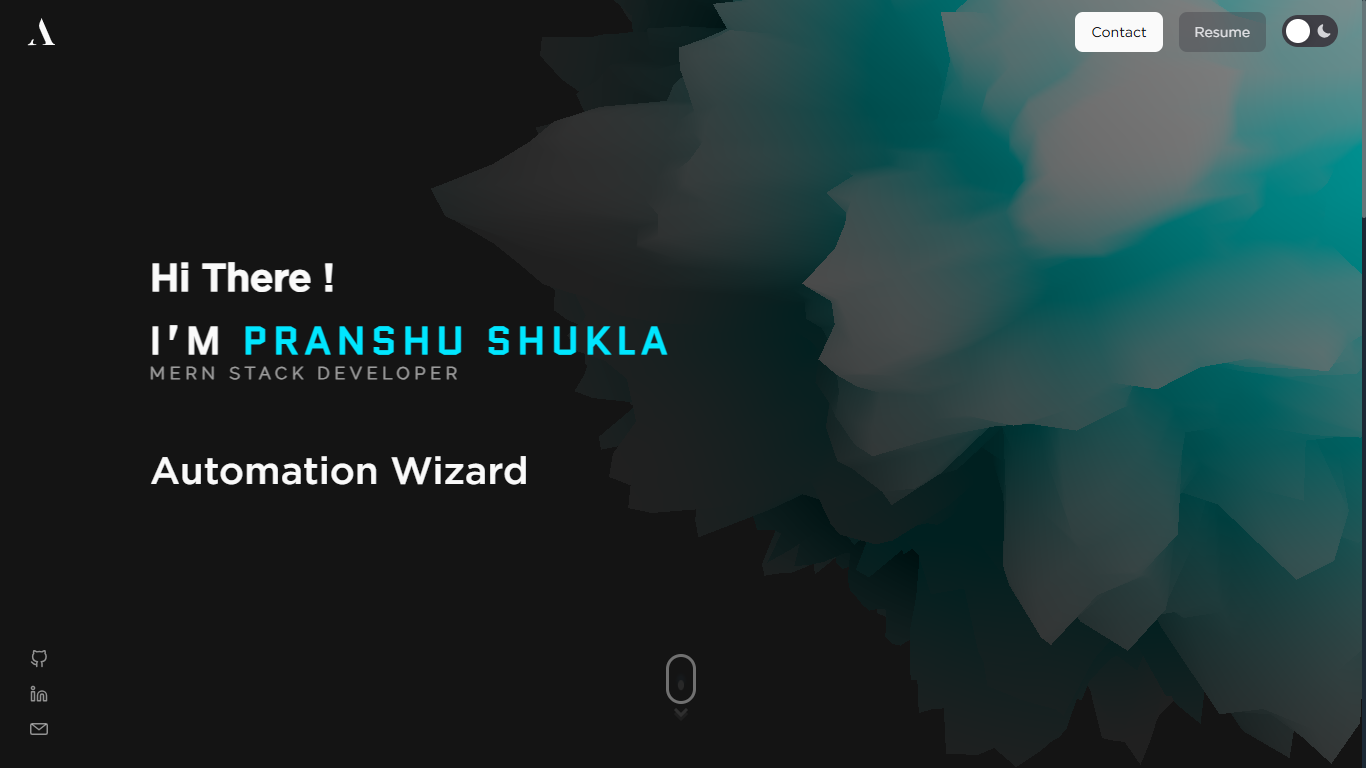
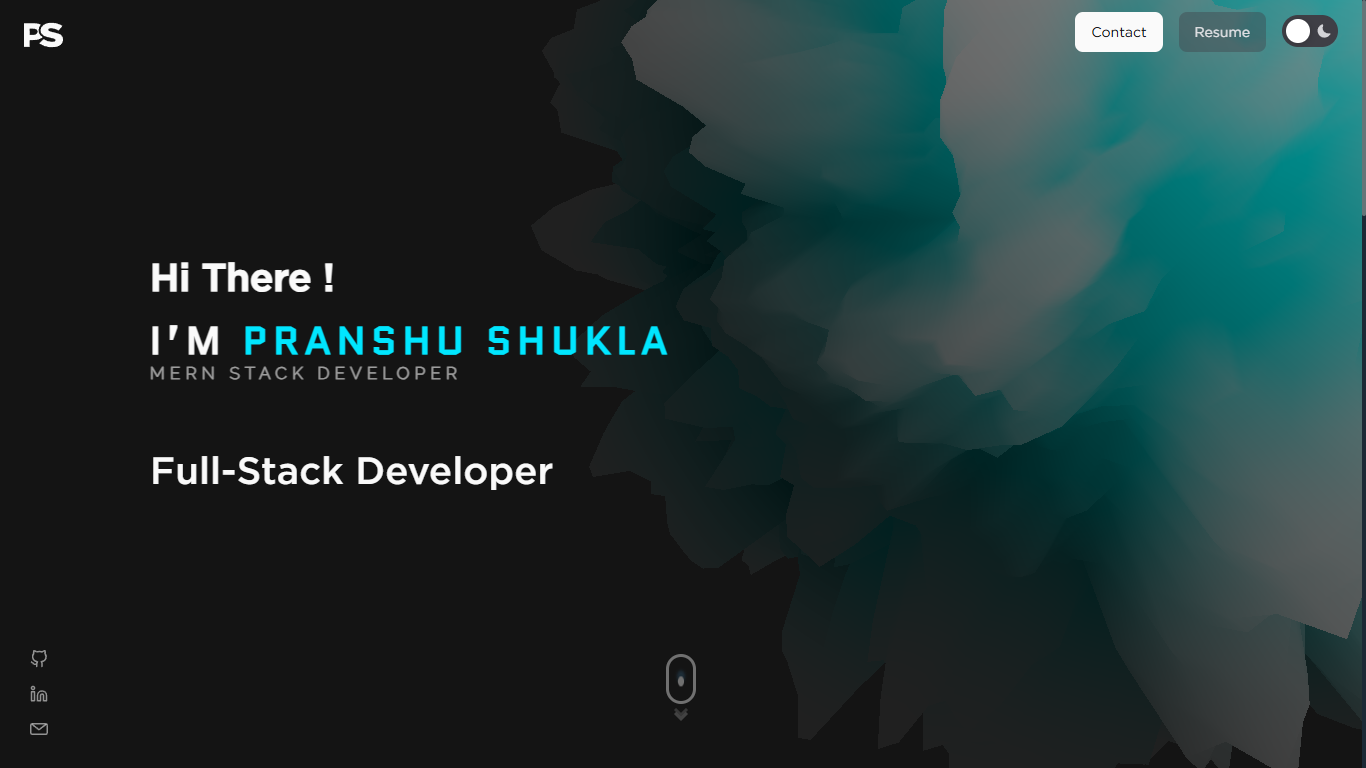
small changes

Changed region(s): [[0.3997, 0.0, 1.0, 1.0], [0.0922, 0.5938, 0.3997, 0.6562], [0.0, 0.0312, 0.0615, 0.0625]]

diff --git a/utils/config.ts b/utils/config.ts
@@ -19,9 +19,7 @@ export const introAnimatedText = [
 ];
 export const myName = "Pranshu Shukla";
 export const shortDescription = "MERN STACK DEVELOPER";
-
-export const longDescription = "Junior Engineer at Goldman Sachs with a passion for technology. Experienced in Java, Game Development, and now focused on Web Development with Next.js, TypeScript, and Framer Motion. Enthusiastic about learning and exploring new technologies. Check out my portfolio for more!";
-
+export const longDescription = "Full Stack Development Apprentice at AccioJob with a strong interest in technology. Experienced in App Development, now actively working on Web Development using Next.js, TypeScript, and Framer Motion. Always curious to learn and explore new tools and frameworks. Feel free to check out my portfolio!"
 export const socialMediaDetails = [
   {
     name: 'GitHub',
@@ -40,8 +38,8 @@ export const socialMediaDetails = [
 export const skills = [
   "C", "C++", "HTML/CSS", "Javascript", "Typescript", "MySQL",
   "MongoDB", "Redux", "Tailwind", "React", "NextJs", "Node", "Redux", "React Native", "RestAPI",
-  "ExpressJs", "SocketIO", "MUI", "Git", "Github", "VSCode", "IntellijIdea", "Docker",
-  // "Postman", "Framer" , "Vercel", {"Flutter",}
+  "ExpressJs", "SocketIO", "MUI", "Git", "Github", "VSCode", "Docker",
+  "Postman", "Framer" , "Vercel", "Flutter"
 ];
 
 // export const experiences = [
@@ -87,33 +85,31 @@ export const skills = [
 export const projectsData = [
   {
     title: '  StaySpot : Hotel Website',
-    desciption: 'Build a platform that remotely runs and compiles user submitted code for a programming problem securely and judges if the code is correct/wrong',
-    tech: ['Nodejs', 'React', 'Docker', 'Redis', 'MongoDB', 'Expressjs', 'JWT'],
-    github: 'https://github.com/Am4nn/Online-Judge-Project',
-    external: 'https://oj.amanarya.com',
-    image: '/projects/oj-front.png'
+    desciption: 'Build a platform that helps user to book hotels according to the group size and location',
+    tech: ['NodeJS', 'ReactJS', 'MongoDB', 'Expressjs', 'JWT'],
+    github: 'https://github.com/Pranshu-007/tour-management-MERN',
+    image: '/projects/ecommerce.png'
   },
   {
     title: 'Portfolio',
     desciption: 'Crafted an engaging portfolio site with NextJS and Three.js, enhancing user interaction through a serverless feedback system powered by a custom API',
-    tech: ['Nodejs', 'NextJS', 'Threejs', 'Nodemailer', 'MUI', 'Bootstrap', 'drei'],
-    github: 'https://github.com/Am4nn/Portfolio-Website',
-    external: 'https://www.amanarya.com',
+    tech: ['NodeJS', 'NextJS', 'Threejs', 'Nodemailer', 'MUI', 'Bootstrap'],
+    github: 'https://github.com/Pranshu-007/Portfolio',
     image: '/projects/Portfolio.png'
   },
   {
-    title: 'Chess vs Stockfish',
-    desciption: 'Designed a Java Swing app for user-friendly equation input and dynamic graph visualization, showcasing strong Java and GUI development skills',
-    tech: ['Java', 'Java-Swing', 'Java-Collections'],
-    github: 'https://github.com/Am4nn/Draw-Graphs',
-    image: '/projects/draw-graph-front.png'
+    title: 'E-commerce website',
+    desciption: 'Designed a E-commerce website with user-friendly UI and showcasing strong Backend , SQL and UI development skills',
+    tech: ['NextJS', 'NodeJS', 'MySQL'],
+    github: 'https://github.com/Pranshu-007/E-Commerce-with-MySQL',
+    image: '/projects/ecommerce.png'
   },
   {
     title: 'FitPro : Gym App',
     desciption: "Designed and developed 'Super Mario', a captivating 2D game using C++ and the SFML, showcasing shader programming skills for visually stunning effects",
-    tech: ['React Native', 'SFML', 'Shader', 'Vector', 'CMake'],
-    github: 'https://github.com/Am4nn/Super-Mario-SFML',
-    image: '/projects/super-mario-front.png'
+    tech: ['React Native', 'Mobile Screen'],
+    github: '',
+    image: '/projects/splash.png'
   }
 ];
 
